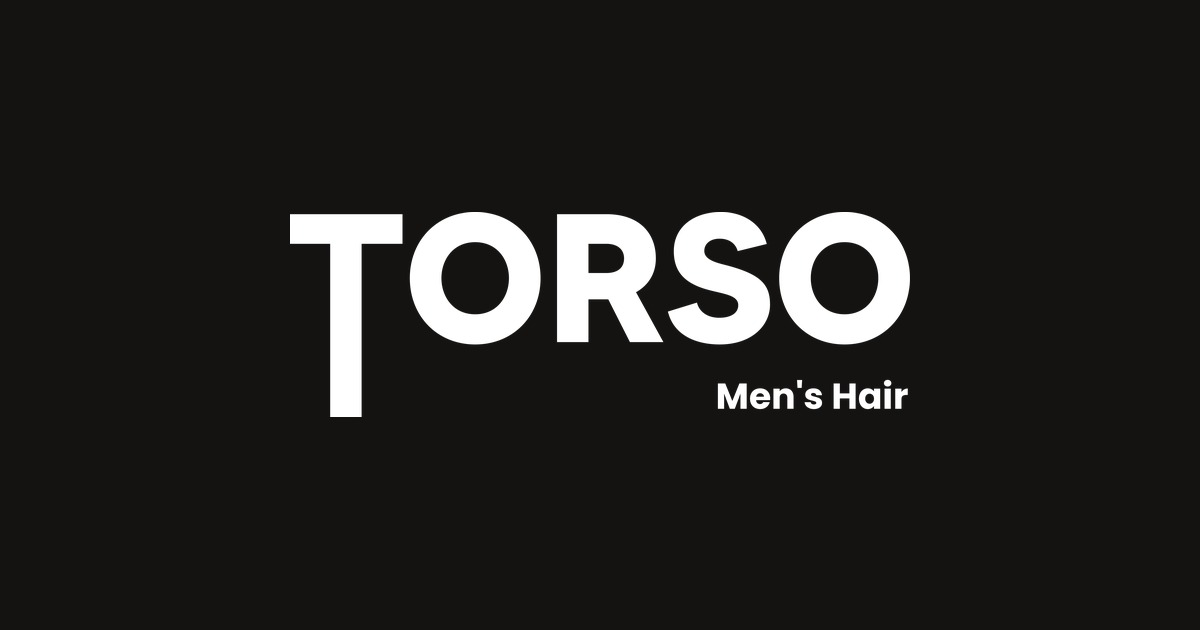
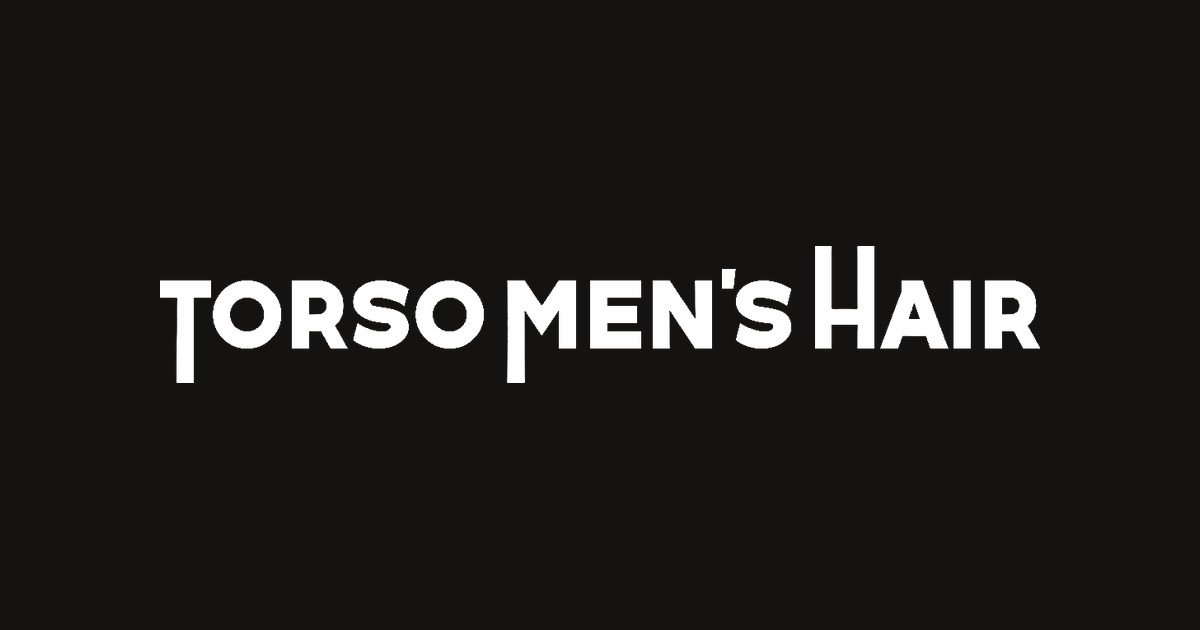
새 아트데코 워드마크 적용(나브·푸터·히어로·OG), 아카이브 문구 수정, 용운 디자이너 직함·N페이 10%·SNS 추가, 정훈 수석디자이너

Changed region(s): [[0.1233, 0.3317, 0.8633, 0.6635], [0.5858, 0.6032, 0.7708, 0.6635]]

diff --git a/designers.html b/designers.html
@@ -16,7 +16,7 @@
 <meta property="og:image:height" content="630">
 <meta name="twitter:card" content="summary_large_image">
 <link rel="icon" href="assets/logo/symbol_black.png">
-<link rel="stylesheet" href="assets/css/style.css?v=rebrand2">
+<link rel="stylesheet" href="assets/css/style.css?v=rebrand3">
 <!-- Google tag (gtag.js) -->
 <script async src="https://www.googletagmanager.com/gtag/js?id=G-F9YTZ0XVML"></script>
 <script>
@@ -130,7 +130,7 @@
         <div class="desg__ph"><img class="desg__img" src="assets/img/designers/jeonghun.jpg" alt="정훈" onerror="this.style.display='none'"><span>사진 입력 예정</span></div>
         <div class="desg__b">
           <span class="role">Lifestyle Fit Designer</span>
-          <h3>정훈 <span class="pos">디자이너</span></h3>
+          <h3>정훈 <span class="pos">수석디자이너</span></h3>
           <p class="desg__dx"><span class="desg__dx-k">전문 진단</span> Soft Core · Lifestyle Fit</p>
           <p>미용실 거울 앞을 넘어 일상까지 편한 디자인. 대충 털어 말려도 자연스러운 멋이 사는, 손질 편한 스타일 전문.</p>
           <span class="desg__disc"><span class="desg__disc-pct">50%</span> 첫 방문 할인 · 커트</span>
@@ -151,12 +151,15 @@
       <article class="desg" id="yongun">
         <div class="desg__ph"><img class="desg__img" src="assets/img/designers/yongun.jpg" alt="용운" onerror="this.style.display='none'"><span>사진 입력 예정</span></div>
         <div class="desg__b">
-          <span class="role">Junior Designer</span>
-          <h3>용운 <span class="pos">주니어 디자이너</span></h3>
+          <span class="role">Essential Designer</span>
+          <h3>용운 <span class="pos">디자이너</span></h3>
           <p class="desg__dx"><span class="desg__dx-k">전문 진단</span> Basic Cut &amp; Care</p>
           <p>토르소의 기준을 가장 가까이에서 훈련한 신진 감각. 합리적인 가격으로 토르소의 디렉팅을 경험할 수 있습니다.</p>
-          <span class="desg__disc"><span class="desg__disc-pct">커트 30,000</span> 주니어 단독가</span>
+          <span class="desg__disc"><span class="desg__disc-pct">10%</span> N페이 결제 할인 · 커트 30,000</span>
           <p class="desg__sns">
+            <a href="https://www.instagram.com/torso_un/" target="_blank" rel="noopener" aria-label="Instagram"><svg class="sns-ico" viewBox="0 0 24 24" aria-hidden="true"><rect x="2" y="2" width="20" height="20" rx="6" fill="url(#igGrad)"/><rect x="6.2" y="6.2" width="11.6" height="11.6" rx="3.6" fill="none" stroke="#fff" stroke-width="1.7"/><circle cx="12" cy="12" r="3" fill="none" stroke="#fff" stroke-width="1.7"/><circle cx="16.3" cy="7.7" r="1.15" fill="#fff"/></svg></a>
+            <a href="https://blog.naver.com/meounjaro" target="_blank" rel="noopener" aria-label="Blog"><svg class="sns-ico" viewBox="0 0 24 24" aria-hidden="true"><rect x="2" y="2" width="20" height="20" rx="6" fill="#1c1b19"/><rect x="7.3" y="6" width="2.6" height="12" rx="1.3" fill="#fff"/><rect x="7.3" y="10.2" width="8.6" height="7.8" rx="2.6" fill="#fff"/><rect x="10.2" y="12.7" width="3.6" height="2.9" rx="1.2" fill="#1c1b19"/></svg></a>
+            <a href="https://booking.naver.com/booking/13/bizes/242540/items/7942111" target="_blank" rel="noopener" aria-label="네이버 예약"><svg class="sns-ico" viewBox="0 0 24 24" aria-hidden="true"><rect x="2" y="2" width="20" height="20" rx="6" fill="#03C75A"/><rect x="5.6" y="6.8" width="12.8" height="11.2" rx="2.4" fill="none" stroke="#fff" stroke-width="1.7"/><path d="M5.6 10.3h12.8" stroke="#fff" stroke-width="1.7"/><path d="M8.7 5.4v2.6M15.3 5.4v2.6" stroke="#fff" stroke-width="1.7" stroke-linecap="round"/><path d="M9.3 13.9l1.8 1.8 3.5-3.6" fill="none" stroke="#fff" stroke-width="1.8" stroke-linecap="round" stroke-linejoin="round"/></svg></a>
           </p>
           <div class="off">휴무 · <b>예약 시 확인</b></div>
           <a class="desg__book" href="https://booking.naver.com/booking/13/bizes/242540/items/7942111" target="_blank" rel="noopener">Reserve a Session</a>
@@ -215,6 +218,6 @@
   </div>
 </footer>
 
-<script src="assets/js/main.js?v=rebrand2"></script>
+<script src="assets/js/main.js?v=rebrand3"></script>
 </body>
 </html>

diff --git a/programs.html b/programs.html
@@ -16,7 +16,7 @@
 <meta property="og:image:height" content="630">
 <meta name="twitter:card" content="summary_large_image">
 <link rel="icon" href="assets/logo/symbol_black.png">
-<link rel="stylesheet" href="assets/css/style.css?v=rebrand2">
+<link rel="stylesheet" href="assets/css/style.css?v=rebrand3">
 <!-- Google tag (gtag.js) -->
 <script async src="https://www.googletagmanager.com/gtag/js?id=G-F9YTZ0XVML"></script>
 <script>
@@ -68,7 +68,7 @@
 
     <div class="price-tabs">
       <span class="price-tabs__thumb" aria-hidden="true"></span>
-      <button class="price-tab" data-tab="junior">주니어</button>
+      <button class="price-tab" data-tab="junior">용운</button>
       <button class="price-tab" data-tab="senior">수석</button>
       <button class="price-tab active" data-tab="jeonghun">정훈</button>
       <button class="price-tab" data-tab="sojang">실장</button>
@@ -78,10 +78,15 @@
     <!-- 주니어 · 용운 -->
     <div class="price-card hidden" id="price-junior" data-disc="">
       <div class="price-card__h">
-        <span class="price-card__title"><h3>주니어 · 용운</h3></span>
+        <span class="price-card__title">
+          <h3>용운</h3>
+          <span class="price-perks price-perks--inline" role="group" aria-label="할인 적용">
+            <button type="button" class="perk perk--btn" data-disc="npay" aria-pressed="false"><span class="perk__pct perk__pct--npay">10%</span> 네이버페이</button>
+          </span>
+        </span>
         <span class="prog-tag">Junior Program</span>
       </div>
-      <p class="price-hint">주니어 디자이너는 부담 없는 단독가로 운영돼요 · 별도 할인(네이버페이 포함)은 적용되지 않아요</p>
+      <p class="price-hint">부담 없는 단독가로 운영돼요 · 첫 방문 할인은 없고, 네이버페이 결제 시 10% 할인돼요</p>
       <div class="price-row"><span class="name">커트 (헤어컨설팅 포함)</span><span class="pay" data-base="30000">30,000</span></div>
       <div class="price-row"><span class="name">그 외 메뉴</span><span class="pay pay--tba">가격표 정리 중</span></div>
     </div>
@@ -295,6 +300,6 @@
   </div>
 </footer>
 
-<script src="assets/js/main.js?v=rebrand2"></script>
+<script src="assets/js/main.js?v=rebrand3"></script>
 </body>
 </html>

diff --git a/index.html b/index.html
@@ -16,7 +16,7 @@
 <meta property="og:image:height" content="630">
 <meta name="twitter:card" content="summary_large_image">
 <link rel="icon" href="assets/logo/symbol_black.png">
-<link rel="stylesheet" href="assets/css/style.css?v=rebrand2">
+<link rel="stylesheet" href="assets/css/style.css?v=rebrand3">
 <!-- Google tag (gtag.js) -->
 <script async src="https://www.googletagmanager.com/gtag/js?id=G-F9YTZ0XVML"></script>
 <script>
@@ -61,7 +61,7 @@
   <div class="wrap hero__inner">
     <div class="hero__text">
       <p class="hero__about">Image Directing Studio</p>
-      <h1 class="hero__title">TORSO<span class="for">MEN'S HAIR</span></h1>
+      <h1 class="hero__title hero__title--img"><img src="assets/logo/logo_white.png" alt="TORSO MEN'S HAIR"></h1>
       <div class="hero__rule"></div>
       <p class="hero__q">우리는 머리카락을 자르지 않습니다.</p>
       <p class="hero__a">당신의 독보적인 페르소나를 조각합니다.</p>
@@ -87,7 +87,7 @@
           <span class="corephoto__key">Archive Core</span>
           <span class="corephoto__name">아카이브 코어</span>
           <span class="corephoto__line">개성 · 실험 · 시그니처</span>
-          <span class="corephoto__reveal"><span class="corephoto__desc">정형을 벗어나 자신만의 코드를 만드는 미학. 가장 TORSO다운 영역.</span><span class="corephoto__ex">텍스처컷 · 빈티지 · 히피</span></span>
+          <span class="corephoto__reveal"><span class="corephoto__desc">정형을 벗어나 자신만의 코드를 만드는 미학.</span><span class="corephoto__ex">텍스처컷 · 빈티지 · 히피</span></span>
           <span class="corephoto__hint">영상·사진 22개 보기 ↓</span>
         </span>
       </div>
@@ -202,6 +202,6 @@
   </div>
 </footer>
 
-<script src="assets/js/main.js?v=rebrand2"></script>
+<script src="assets/js/main.js?v=rebrand3"></script>
 </body>
 </html>

diff --git a/gallery.html b/gallery.html
@@ -18,7 +18,7 @@
 <link rel="icon" href="assets/logo/symbol_black.png">
 <link rel="preload" as="image" href="assets/img/ba_after.webp" type="image/webp" fetchpriority="high">
 <link rel="preload" as="image" href="assets/img/ba_before.webp" type="image/webp" fetchpriority="high">
-<link rel="stylesheet" href="assets/css/style.css?v=rebrand2">
+<link rel="stylesheet" href="assets/css/style.css?v=rebrand3">
 <!-- Google tag (gtag.js) -->
 <script async src="https://www.googletagmanager.com/gtag/js?id=G-F9YTZ0XVML"></script>
 <script>
@@ -469,6 +469,6 @@
   </div>
 </footer>
 
-<script src="assets/js/main.js?v=rebrand2"></script>
+<script src="assets/js/main.js?v=rebrand3"></script>
 </body>
 </html>

diff --git a/philosophy.html b/philosophy.html
@@ -16,7 +16,7 @@
 <meta property="og:image:height" content="630">
 <meta name="twitter:card" content="summary_large_image">
 <link rel="icon" href="assets/logo/symbol_black.png">
-<link rel="stylesheet" href="assets/css/style.css?v=rebrand2">
+<link rel="stylesheet" href="assets/css/style.css?v=rebrand3">
 <!-- Google tag (gtag.js) -->
 <script async src="https://www.googletagmanager.com/gtag/js?id=G-F9YTZ0XVML"></script>
 <script>
@@ -177,6 +177,6 @@
   </div>
 </footer>
 
-<script src="assets/js/main.js?v=rebrand2"></script>
+<script src="assets/js/main.js?v=rebrand3"></script>
 </body>
 </html>

diff --git a/styles.html b/styles.html
@@ -16,7 +16,7 @@
 <meta property="og:image:height" content="630">
 <meta name="twitter:card" content="summary_large_image">
 <link rel="icon" href="assets/logo/symbol_black.png">
-<link rel="stylesheet" href="assets/css/style.css?v=rebrand2">
+<link rel="stylesheet" href="assets/css/style.css?v=rebrand3">
 <!-- Google tag (gtag.js) -->
 <script async src="https://www.googletagmanager.com/gtag/js?id=G-F9YTZ0XVML"></script>
 <script>
@@ -192,6 +192,6 @@
   </div>
 </footer>
 
-<script src="assets/js/main.js?v=rebrand2"></script>
+<script src="assets/js/main.js?v=rebrand3"></script>
 </body>
 </html>

diff --git a/assets/css/style.css b/assets/css/style.css
@@ -402,6 +402,9 @@ h1,h2,h3{font-weight:700;letter-spacing:-.02em;line-height:1.14;text-wrap:balanc
 }
 .price-tab .tab-ico{flex:none}
 .price-tab.active{color:var(--paper)}
+/* 히어로 타이틀: 새 아트데코 워드마크 이미지 */
+.hero__title--img{margin:0}
+.hero__title--img img{display:block;width:min(440px,82vw);height:auto}
 /* 상호 변경 안내 토스트 */
 .rebrand-toast{position:fixed;left:50%;bottom:26px;transform:translate(-50%,16px);z-index:400;
   background:#1c1b19;color:#fff;font-size:13.5px;line-height:1.4;padding:12px 14px 12px 20px;
